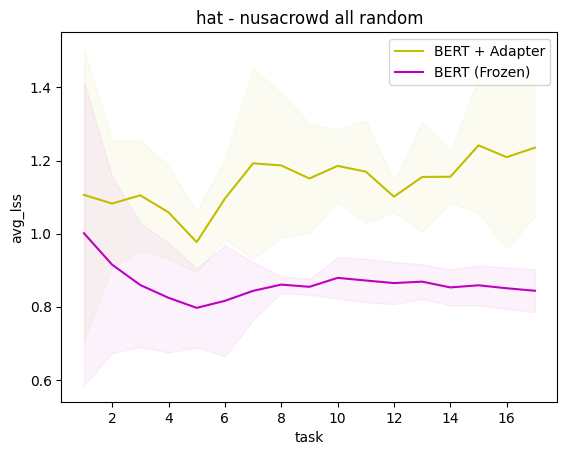
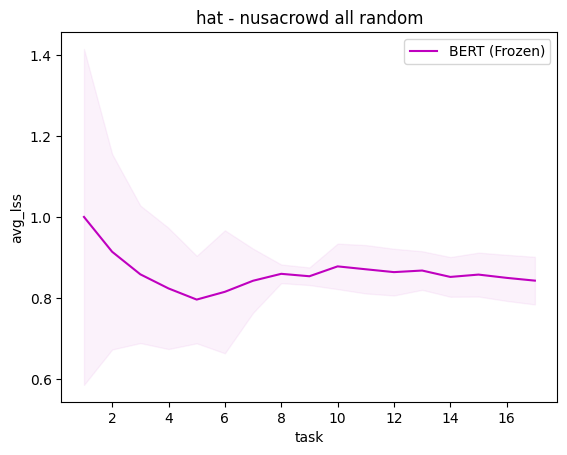
update viz

diff --git a/src/utils.py b/src/utils.py
@@ -633,12 +633,12 @@ def calculate_metrics(data):
         for row in result_df.values.tolist():
             csv_writer.writerow(row)
             
-    # with open('res/til_classification/result_per_setting.csv', 'a', newline='') as fp:
-    #     csv_writer = csv.writer(fp, delimiter=',')
+    with open('res/til_classification/result_per_setting.csv', 'a', newline='') as fp:
+        csv_writer = csv.writer(fp, delimiter=',')
         
-    #     list_row = result_df_aggr.values.tolist()
-    #     for i in range (len(list_row)):
-    #         csv_writer.writerow([result_df_aggr.index.get_level_values(0).to_list()[i]] + [result_df_aggr.index.get_level_values(1).to_list()[i]] + ['{:,.4f}'.format(elmt) for elmt in list_row[i]])
+        list_row = result_df_aggr.values.tolist()
+        for i in range (len(list_row)):
+            csv_writer.writerow([result_df_aggr.index.get_level_values(0).to_list()[i]] + [result_df_aggr.index.get_level_values(1).to_list()[i]] + ['{:,.4f}'.format(elmt) for elmt in list_row[i]])
 
 def get_worst_forgetting(dir_name, exp_id, backbone, baseline, list_task): # n: jumlah data worst yang dipakai
     output = get_output(backbone, baseline, exp_id)
@@ -928,30 +928,28 @@ if __name__ == "__main__":
     #         visualize('', row['exp_id'], f"res/til_classification/nusacrowd/{row['exp_id']} - {row['backbone']}_{row['baseline']}_.txt/{row['backbone']}_{row['baseline']}_.txt", 'nusacrowd_all_random', 'nusacrowd')
     
     # create viz for backbone and baseline combination
-    # list_create_viz = [
-    #     # multi_baseline
-    #     [['bert'], ['mtl', 'one', 'ncl', 'ewc', 'a-gem'], 'multi_baseline'],
-    #     [['bert_adapter'], ['mtl', 'hat', 'a-gem', 'ewc', 'b-cl', 'ctr'], 'multi_baseline'],
-    #     [['bert_frozen'], ['one', 'a-gem', 'hat', 'kan', 'ncl', 'ewc'], 'multi_baseline'],
+    list_create_viz = [
+        # multi_baseline
+        [['bert'], ['mtl', 'one', 'ncl', 'ewc', 'a-gem'], 'multi_baseline'],
+        [['bert_frozen'], ['one', 'a-gem', 'hat', 'ncl', 'ewc'], 'multi_baseline'],
         
-    #     # multi_backbone
-    #     [['bert_adapter', 'bert_frozen', 'bert'], ['a-gem'], 'multi_backbone'],
-    #     [['bert_adapter', 'bert_frozen', 'bert'], ['ewc'], 'multi_backbone'],
-    #     [['bert_adapter', 'bert_frozen'], ['hat'], 'multi_backbone'],
-    #     [['bert_frozen'], ['kan'], 'multi_backbone'],
-    #     [['bert', 'bert_adapter'], ['mtl'], 'multi_backbone'],
-    #     [['bert', 'bert_frozen'], ['ncl'], 'multi_backbone'],
-    #     [['bert', 'bert_frozen'], ['one'], 'multi_backbone']
-    # ]
+        # multi_backbone
+        [['bert_frozen', 'bert'], ['a-gem'], 'multi_backbone'],
+        [['bert_frozen', 'bert'], ['ewc'], 'multi_backbone'],
+        [['bert_frozen'], ['hat'], 'multi_backbone'],
+        [['bert'], ['mtl'], 'multi_backbone'],
+        [['bert', 'bert_frozen'], ['ncl'], 'multi_backbone'],
+        [['bert', 'bert_frozen'], ['one'], 'multi_backbone']
+    ]
     
-    # for elmt in list_create_viz:
-    #     run_create_viz(elmt[0], elmt[1], 'nusacrowd all random', elmt[2])
+    for elmt in list_create_viz:
+        run_create_viz(elmt[0], elmt[1], 'nusacrowd all random', elmt[2])
     
     # recalculate an experiment
     # calculate_metrics(81, 'bert_adapter', 'a-gem')
     
     # recalculate all experiments        
-    calculate_metrics(list_exp.iterrows())
+    # calculate_metrics(list_exp.iterrows())
     
     # get worst forgetting
     # with open('res/til_classification/result_transfer_cl.csv', 'a', newline='') as fp:

diff --git a/src/dataloaders/nusacrowd/bert.py b/src/dataloaders/nusacrowd/bert.py
@@ -73,6 +73,7 @@ def get(logger=None,args=None):
     print('tasks: ',len(tasks))
 
     for t in range(args.ntasks):
+        print("t:", t)
         dataset = datasets[tasks.index(random_sep[t])]
         print('dataset: ',dataset)
         data[t]={}        
